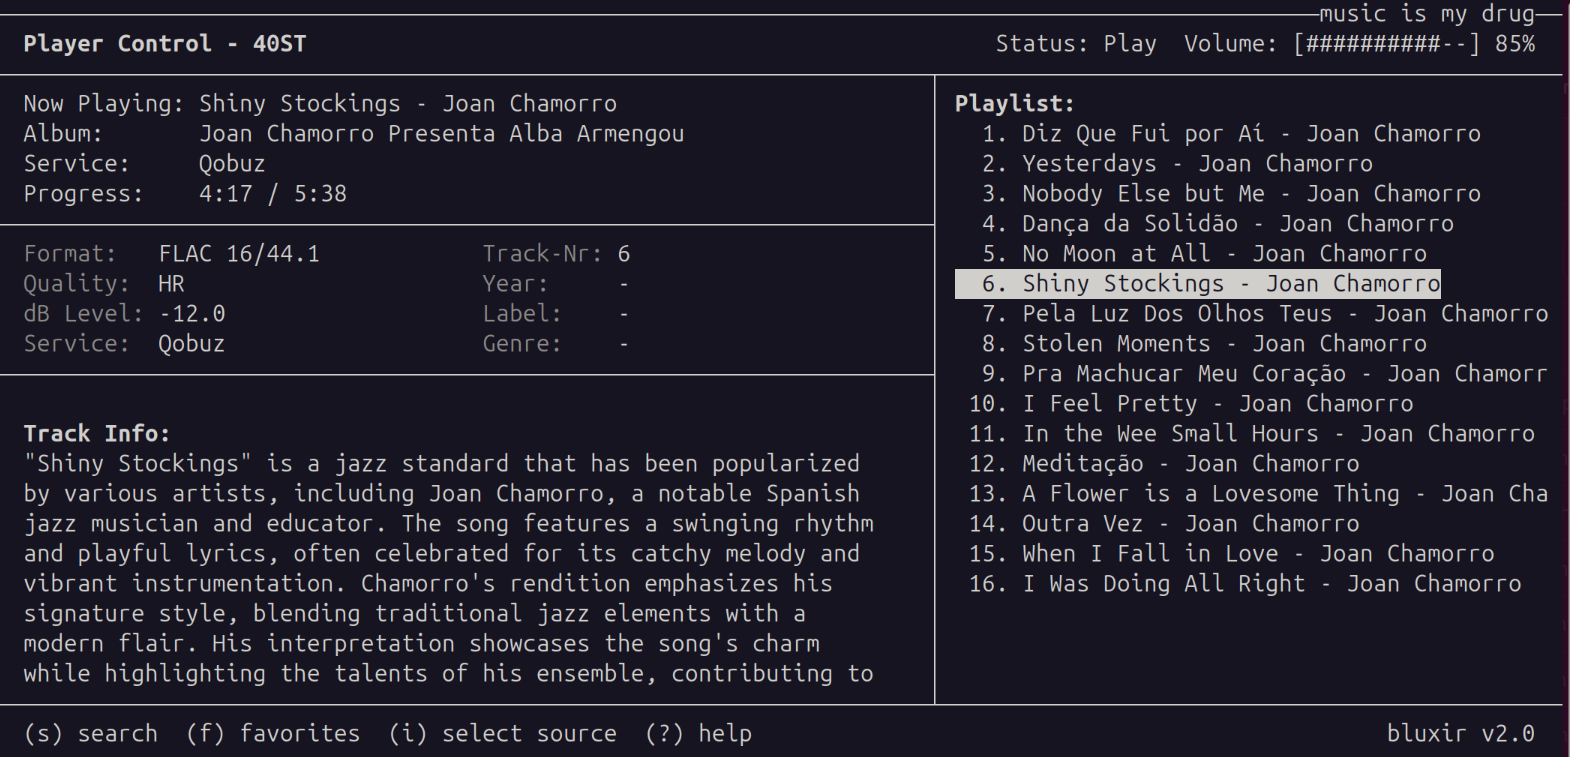
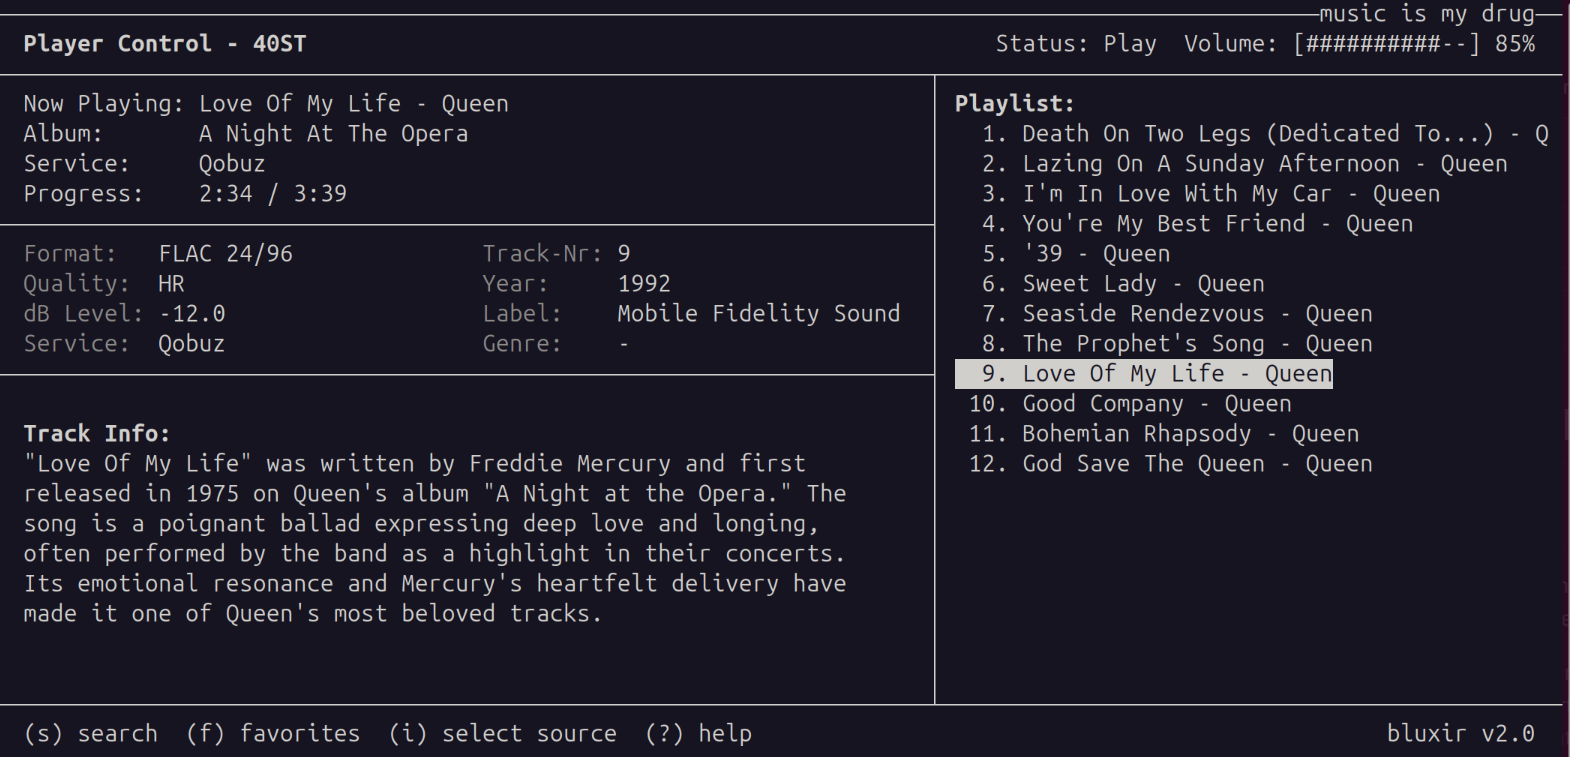
added systemprompt for openai

diff --git a/bluxir.py b/bluxir.py
@@ -158,8 +158,9 @@ class BlusoundCLI:
             title = self.player_status.name
             artist = self.player_status.artist
             api_key = get_preference('openai_api_key')
+            system_prompt = get_preference('openai_system_prompt')
             logger.info(f"Fetching AI info for: {title} - {artist}")
-            text = get_track_info_ai(title, artist, api_key)
+            text = get_track_info_ai(title, artist, api_key, system_prompt)
             self.wiki_text = text
             self.wiki_loading = False
             logger.info(f"AI fetch done: {'found' if text else 'not found'}")
@@ -518,12 +519,12 @@ class BlusoundCLI:
         elif key == KEY_RIGHT and self.active_player:
             success, message = self.active_player.skip()
             if success:
-                self.update_player_status()
+                self.last_update_time = time.time() - 2
             self.set_message(message)
         elif key == KEY_LEFT and self.active_player:
             success, message = self.active_player.back()
             if success:
-                self.update_player_status()
+                self.last_update_time = time.time() - 2
             self.set_message(message)
         elif key == KEY_I:
             self.source_selection_mode = True
@@ -844,7 +845,7 @@ class BlusoundCLI:
                     if self.player_status.totlen > 0:
                         self.player_status.secs = min(self.player_status.secs, self.player_status.totlen)
                     self.last_progress_time = current_time
-            if self.active_player and current_time - self.last_update_time >= 10:
+            if self.active_player and current_time - self.last_update_time >= 3:
                 self.update_player_status()
                 self.last_update_time = current_time
                 self.last_progress_time = current_time

diff --git a/musicbrainz.py b/musicbrainz.py
@@ -129,7 +129,7 @@ def get_track_wiki(title):
     return None
 
 
-def get_track_info_ai(title, artist, api_key):
+def get_track_info_ai(title, artist, api_key, system_prompt=None):
     """Fetch track information from OpenAI."""
     if not title or not api_key:
         return None
@@ -140,8 +140,12 @@ def get_track_info_ai(title, artist, api_key):
         return _cache[cache_key]
 
     try:
-        prompt = f"Tell me about the song \"{title}\" by {artist}. Keep it short, max 3-4 sentences."
-        logger.info(f"OpenAI request: {prompt}")
+        user_prompt = f"Tell me about the song \"{title}\" by {artist}."
+        messages = []
+        if system_prompt:
+            messages.append({"role": "system", "content": system_prompt})
+        messages.append({"role": "user", "content": user_prompt})
+        logger.info(f"OpenAI request: system='{system_prompt}', user='{user_prompt}'")
         response = requests.post(
             "https://api.openai.com/v1/chat/completions",
             headers={
@@ -150,7 +154,7 @@ def get_track_info_ai(title, artist, api_key):
             },
             json={
                 "model": "gpt-4o-mini",
-                "messages": [{"role": "user", "content": prompt}],
+                "messages": messages,
                 "max_tokens": 200,
                 "temperature": 0.7,
             },

diff --git a/docs/DOCUMENTATION.md b/docs/DOCUMENTATION.md
@@ -168,9 +168,9 @@ Rate limiting enforces 1 request per second as required by the MusicBrainz API t
 
 ### OpenAI (Track Info)
 
-When the track changes, a background thread sends the track title and artist to OpenAI's `gpt-4o-mini` model with a prompt requesting a short 3-4 sentence description. The response is displayed in the "Track Info" section below the detail box.
+When the track changes, a background thread sends the track title and artist to OpenAI's `gpt-4o-mini` model. A configurable system prompt controls what information is returned (e.g. year written, songwriter). The response is displayed in the "Track Info" section below the detail box.
 
-The API key is stored in `~/.blusoundcli.json` under the `openai_api_key` field.
+The API key and system prompt are stored in `~/.blusoundcli.json` under `openai_api_key` and `openai_system_prompt`.
 
 Both MusicBrainz and OpenAI results are cached in memory for the duration of the session to avoid redundant API calls.
 
@@ -186,7 +186,8 @@ Config file: `~/.blusoundcli.json`
 {
   "player_host": "192.168.86.21",
   "player_name": "Living Room",
-  "openai_api_key": "sk-..."
+  "openai_api_key": "sk-...",
+  "openai_system_prompt": "Always include the year the song was first written and who wrote it. Keep it short, max 3-4 sentences."
 }
 ```
 
@@ -195,6 +196,7 @@ Config file: `~/.blusoundcli.json`
 | `player_host` | IP address of the Blusound player (skip discovery on startup) |
 | `player_name` | Friendly name of the player |
 | `openai_api_key` | OpenAI API key for track info feature |
+| `openai_system_prompt` | System prompt sent to OpenAI to control the style and content of track info responses |
 
 ## Dependencies
 
@@ -208,6 +210,7 @@ Config file: `~/.blusoundcli.json`
 
 1. The main loop runs with a 100ms timeout on keyboard input
 2. Every second, the local progress counter increments (client-side interpolation)
-3. Every 10 seconds, a full status refresh is fetched from the player via `/Status`
+3. Every 3 seconds, a full status refresh is fetched from the player via `/Status`
 4. On track/album change, background metadata fetches are triggered
-5. On any user action (play/pause, skip, volume), an immediate status refresh occurs
+5. On skip/back, a refresh is scheduled after ~1 second to allow the player to transition
+6. On other user actions (play/pause, volume), an immediate status refresh occurs
